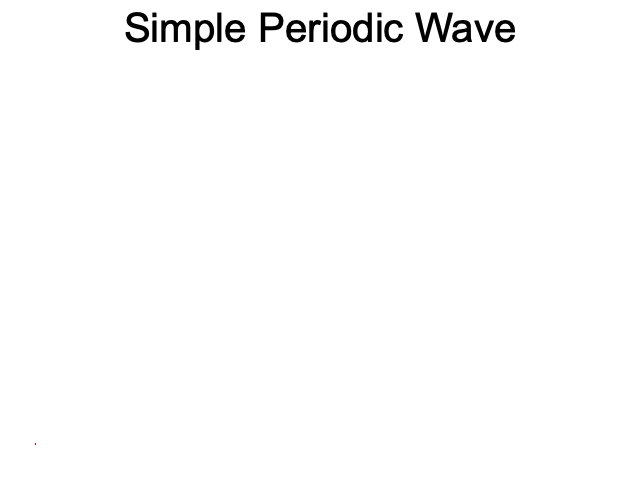
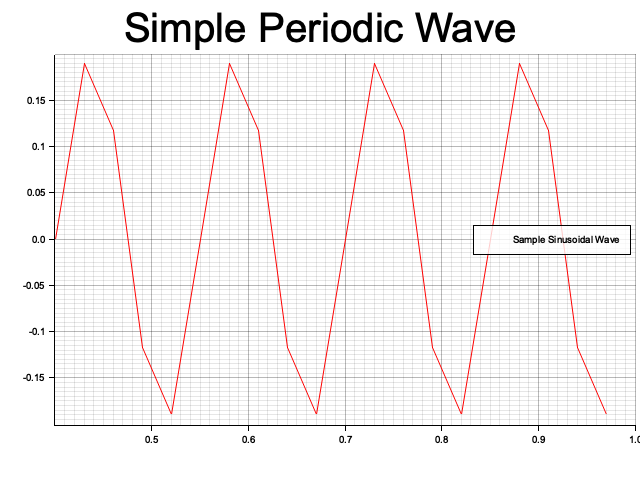
graph display working

diff --git a/src/main.rs b/src/main.rs
@@ -115,17 +115,17 @@ fn main() -> Result<(), Box<dyn std::error::Error>> {
     root.fill(&WHITE)?;
     let mut chart = ChartBuilder::on(&root)
         .caption("Simple Periodic Wave", ("sans-serif", 50).into_font())
-        .margin(5)
-        .x_label_area_size(500)
-        .y_label_area_size(500)
-        .build_cartesian_2d(test_displace[0]..test_displace[test_displace.len()-1], range[0]..range[range.len()-1])?;
+        .margin(5u32)
+        .x_label_area_size(50u32)
+        .y_label_area_size(50u32)
+        .build_cartesian_2d(0.4..1.0, -0.2..0.2)?;
   
     chart.configure_mesh().draw()?;
 
     println!("range generated");
 
     chart
-        .draw_series(LineSeries::new(std::iter::zip(test_displace, range), &RED))?
+        .draw_series(LineSeries::new(std::iter::zip(range, test_displace), &RED))?
         .label("Sample Sinusoidal Wave");
     chart
         .configure_series_labels()
